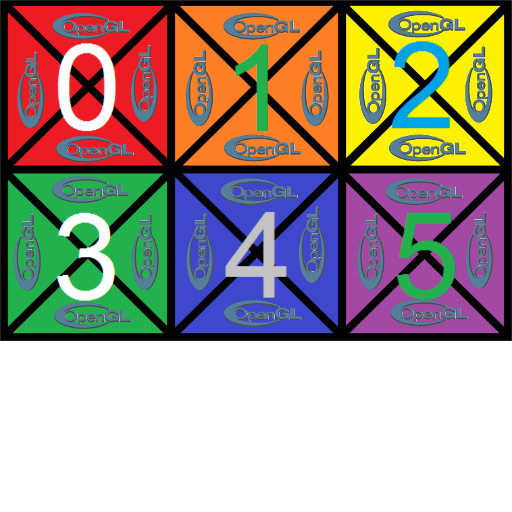
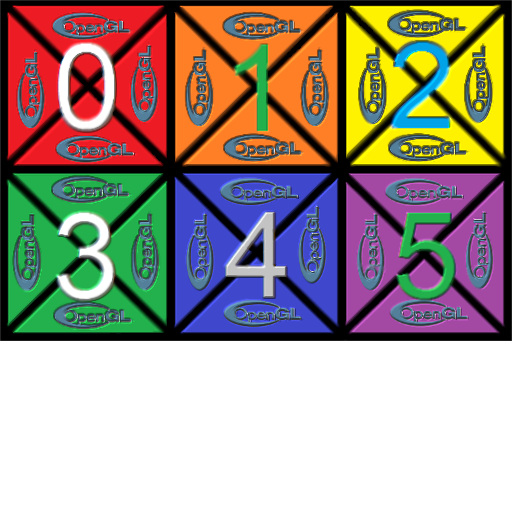
Add image loading from file

Changed region(s): [[0.0, 0.0, 1.0, 0.6562]]

diff --git a/examples/collada/src/directx_image_loader.cpp b/examples/collada/src/directx_image_loader.cpp
@@ -5,12 +5,12 @@
 #include <wincodec.h>
 #include <shlwapi.h>
 
-inline void intrusive_ptr_add_ref(::IUnknown *obj) noexcept
+inline void intrusive_ptr_add_ref(::IUnknown* const obj) noexcept
 {
 	obj->AddRef();
 }
 
-inline void intrusive_ptr_release(::IUnknown *obj) noexcept
+inline void intrusive_ptr_release(::IUnknown* const obj) noexcept
 {
 	obj->Release();
 }
@@ -266,19 +266,15 @@ static s_IWICBitmapLock bitmap_lock(const s_IWICBitmap& bitmap, ::WICRect& rc_lo
 	return s_IWICBitmapLock(ret);
 }
 
-s_image image::load(io::s_read_channel&& src, image_format format)
-{
-	//if( image_format::TGA != format || image_format::DDS != format )
-	//	return s_image();
-	COM ms_com_guard;
+static io::byte_buffer decode_image(const s_IStream& stream, unsigned int& w, unsigned int& h) {
+		COM ms_com_guard;
 	s_IWICImagingFactory imgFactory = create_image_factory();
-	s_IStream srcStream( new read_stream( std::forward<io::s_read_channel>(src)), false );
-	s_IWICBitmapDecoder decoder = create_bitmap_decoder(imgFactory, srcStream);
+	s_IWICBitmapDecoder decoder = create_bitmap_decoder(imgFactory, stream);
 	s_IWICFormatConverter converter = create_format_converter(imgFactory, decoder);
 	s_IWICBitmap bit_map = create_bitmap(imgFactory,converter);
 
-	unsigned int w, h;
-	bit_map->GetSize(&w,&h);
+
+	bit_map->GetSize( std::addressof(w), std::addressof(h) );
 	::WICRect rc_lock = { 0, 0,  static_cast<::INT>(w), static_cast<::INT>(h) };
 	s_IWICBitmapLock lock = bitmap_lock(bit_map,rc_lock);
 
@@ -288,13 +284,33 @@ s_image image::load(io::s_read_channel&& src, image_format format)
 	hr = lock->GetDataPointer(&cbBufferSize, &pv);
 	if (!SUCCEEDED(hr))
 		throw std::runtime_error("Can't obtain data from bitmap");
-
 	std::error_code ec;
-	io::byte_buffer image_data = io::byte_buffer::wrap(ec, pv, cbBufferSize);
+	io::byte_buffer ret = io::byte_buffer::wrap(ec, pv, cbBufferSize);
 	if(ec)
 		throw std::system_error(ec);
+	return ret;
+}
 
-	return  s_image(new image( w, h, cbStride, std::move(image_data) ) );
+
+s_image image::load(io::s_read_channel&& src, image_format format)
+{
+	//if( image_format::TGA != format || image_format::DDS != format )
+	//	return s_image();
+	 s_IStream stream( new read_stream( std::forward<io::s_read_channel>(src)), false);
+	unsigned int w,h;
+	io::byte_buffer image_data = decode_image( stream, w, h );
+	return  s_image(new image( w, h, std::move(image_data) ) );
+}
+
+s_image image::load(const io::file& file, image_format format)
+{
+	IStream* src;
+	::HRESULT errc = ::SHCreateStreamOnFileEx(file.wpath().data(), STGM_READ, FILE_ATTRIBUTE_READONLY, FALSE, nullptr, &src);
+	if(!SUCCEEDED(errc))
+		throw std::runtime_error( std::string("Can not open image file: ").append(file.path()) );
+	unsigned int w,h;
+	io::byte_buffer image_data = decode_image( s_IStream(src,false), w, h );
+	return s_image(new image( w, h, std::move(image_data) ) );
 }
 
 

diff --git a/examples/collada/include/image.hpp b/examples/collada/include/image.hpp
@@ -4,6 +4,7 @@
 #include <object.hpp>
 #include <buffer.hpp>
 #include <channels.hpp>
+#include <files.hpp>
 
 namespace engine {
 
@@ -23,17 +24,15 @@ namespace engine {
 	DECLARE_IPTR(image);
 	class image final: public io::object {
 	private:
-		image(std::size_t w, std::size_t h, unsigned short stride,io::byte_buffer&& data) noexcept;
+		image(std::size_t w, std::size_t h, io::byte_buffer&& data) noexcept;
 	public:
 		static s_image load(io::s_read_channel&& src, image_format format);
+		static s_image load(const io::file& file, image_format format);
 		const std::size_t width() const noexcept {
 			return width_;
 		}
 		const std::size_t height() const noexcept {
 			return height_;
-		}
-		const unsigned short stride() const noexcept {
-			return stride_;
 		}
 		const uint8_t* data() const noexcept {
 			return data_.position().get();
@@ -41,7 +40,6 @@ namespace engine {
 	private:
 		std::size_t width_;
 		std::size_t height_;
-		unsigned short stride_;
 		io::byte_buffer data_;
 	};
 

diff --git a/examples/collada/src/main.cpp b/examples/collada/src/main.cpp
@@ -99,11 +99,10 @@ int main(int argc, const char** argv)
 	if ( GLFW_TRUE == ::glfwInit() ) {
 		try {
 			engine::frame_view view(640,480,"Collada model view");
-			// engine::s_model md( new engine::untextured_static_mesh(COLORED_QUBE_VERTEX,216,CUBE_INDEX,36) );
+			//engine::s_model md( new engine::untextured_static_mesh(COLORED_QUBE_VERTEX,216,CUBE_INDEX,36) );
 
 			io::file timg("cube_tex2d_512x512.png");
-			std::error_code ec;
-			engine::s_image texture_img = engine::image::load(timg.open_for_read(ec), engine::image_format::PNG);
+			engine::s_image texture_img = engine::image::load(timg, engine::image_format::PNG);
 
 			engine::s_model md( new engine::textured_static_mesh(TEXTURED_QUBE_VERTEX, 192, CUBE_INDEX,36, texture_img ) );
 			view.show(md);

diff --git a/examples/collada/src/model.cpp b/examples/collada/src/model.cpp
@@ -44,7 +44,7 @@ MaterialInfo defaultMaterial() {\n\
  	result.diffuse = vec4(0.8, 0.8, 0.8, 1);\n\
  	result.specular = vec4(0, 0, 0, 1);\n\
  	result.emission = vec4(0,0,0,1);\n\
- 	result.shininess = 0.001;\n\
+ 	result.shininess = 4;\n\
  	return result;\n\
 }\n\
 float dot(vec4 lsh, vec4 rhs) {\n\
@@ -65,7 +65,7 @@ vec4 phongModel(LightInfo light, MaterialInfo mat, vec4 position, vec4 norm ) {\
 	if( sDotN > 0.0 ) {\n\
 		specular = light.specular * mat.specular * pow( max( dot(r,v), 0.0 ), mat.shininess );\n\
 	}\n\
-	return ambient + diffuse + specular;\n\
+	return ambient + clamp(diffuse,0.0, 1.0) +  clamp(specular, 0.0, 1.0);\n\
 }\n\
 LightInfo light = defaultLight();\n\
 MaterialInfo mat = defaultMaterial();\n\

diff --git a/examples/collada/src/image.cpp b/examples/collada/src/image.cpp
@@ -4,11 +4,10 @@
 namespace engine {
 
 // image
-image::image(std::size_t w, std::size_t h, unsigned short stride,io::byte_buffer&& data) noexcept:
+image::image(std::size_t w, std::size_t h,io::byte_buffer&& data) noexcept:
 	io::object(),
 	width_(w),
 	height_(h),
-	stride_(stride),
 	data_( std::forward<io::byte_buffer>(data) )
 {}
 
